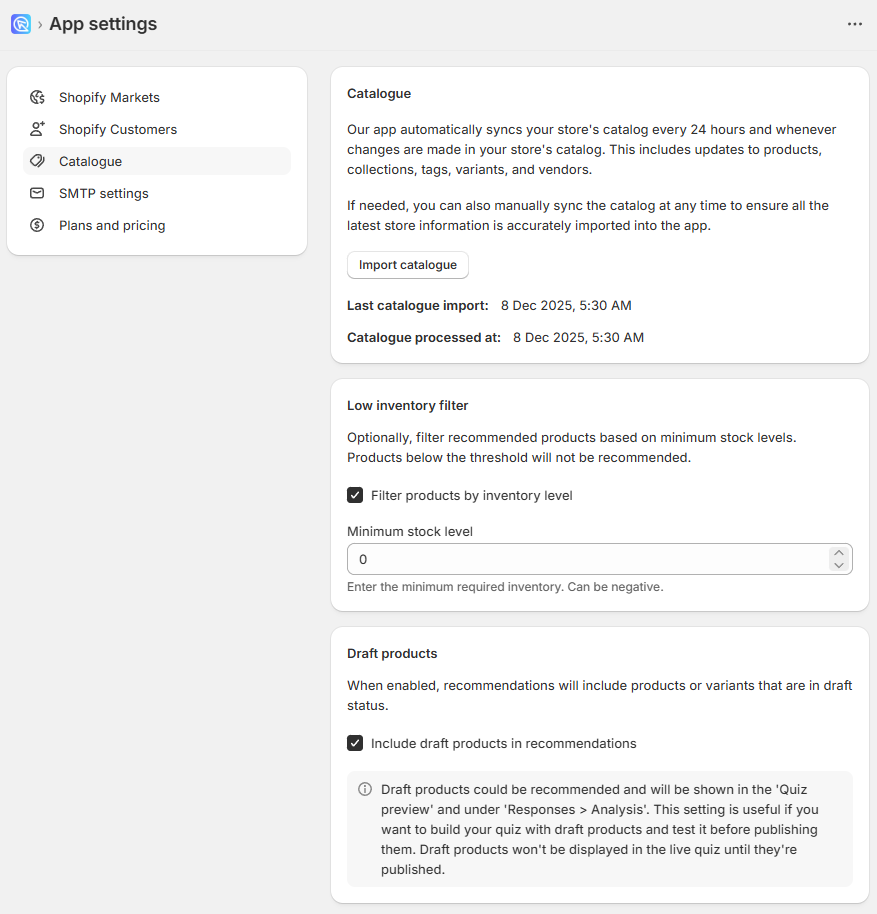
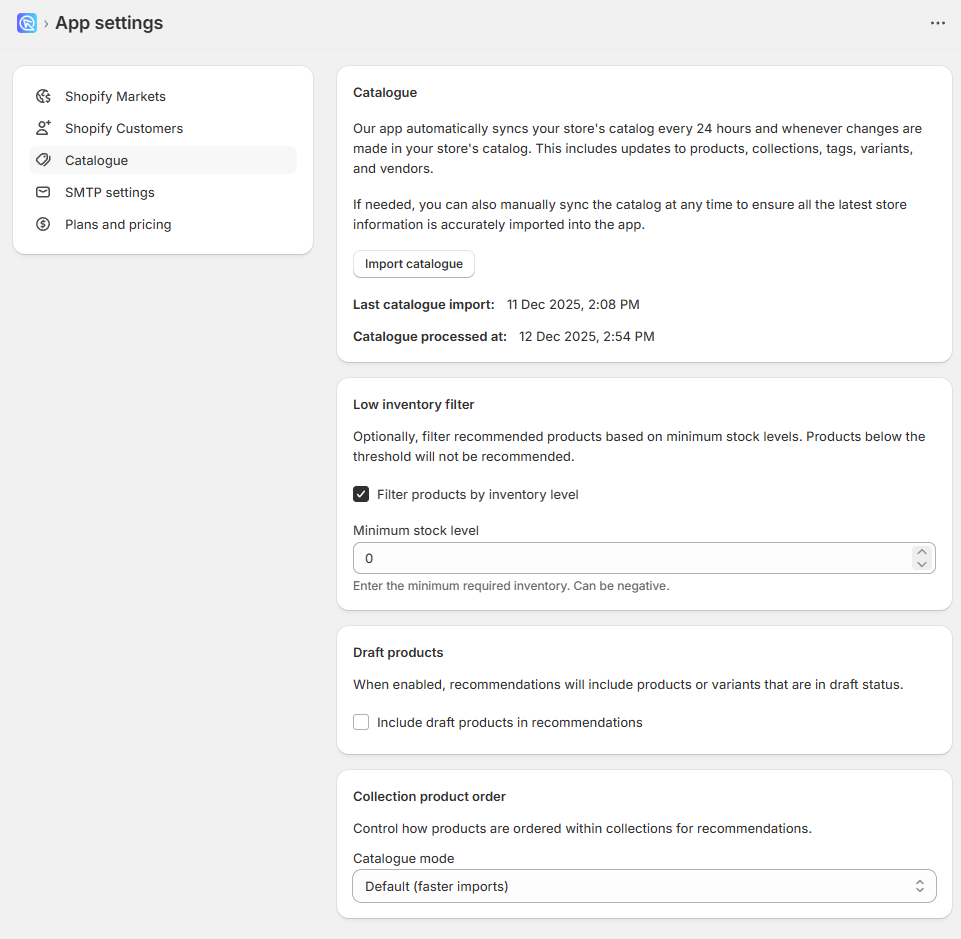
docs: update product recommendation documentation to clarify tie-breaking behavior and introduce 'Preserve collection order' setting for improved user guidance

diff --git a/docs/how-to-guides/set-up-funnel-quiz.md b/docs/how-to-guides/set-up-funnel-quiz.md
@@ -18,7 +18,7 @@ Our product recommendation algorithm works like a voting system:
 - When a customer picks a choice, all linked products receive one vote.
 - After the customer takes the quiz, the results page will show the most voted product variants sorted by the number of votes.
 - If no products have been linked or all the products have been excluded, the results page will appear empty.
-- If there's a draw in the number of votes, the app will randomize the order of products.
+- If there's a draw in the number of votes, the order depends on your Catalogue mode setting. By default, ties are randomized. Enable 'Preserve collection order' in [Settings > Catalogue](/reference/quiz-builder/quiz-settings/#catalogue-settings) to show products in the same order as your Shopify collections.
 
 **Understand Inclusion and Exclusion**
 
@@ -151,7 +151,7 @@ Use the `exclude` field of the [Link Products/Collections/Exclude](/reference/qu
 
 The voting system recommends products by counting how many times each one is "voted for" through customer quiz choices. Each quiz choice can be linked to specific product variants, and every time a customer selects a choice, the associated products receive one vote. 
 
-At the end of the quiz, the results page displays the product variants with the most votes, sorted from highest to lowest. If no products have been linked or all products are excluded by logic, the results page will be empty. In the case of a tie, the app will randomize the product order. You can also configure the system to show only a limited number of top-voted products or set a minimum number of votes for a product to appear.
+At the end of the quiz, the results page displays the product variants with the most votes, sorted from highest to lowest. If no products have been linked or all products are excluded by logic, the results page will be empty. If there's a draw in the number of votes, the order depends on your Catalogue mode setting. By default, ties are randomized. Enable 'Preserve collection order' in [Settings > Catalogue](/reference/quiz-builder/quiz-settings/#catalogue-settings) to show products in the same order as your Shopify collections. You can also configure the system to show only a limited number of top-voted products or set a minimum number of votes for a product to appear.
 
 ![how_to_shopify_v2_recommendations_funnel](/images/how_to_shopify_v2_recommendations_funnel.png){width=500} 
 
@@ -492,7 +492,7 @@ The voting system counts product "votes" based on customer quiz choices and then
     - When a customer picks a choice, all linked products receive one vote
     - After the customer takes the quiz, the results page will show the most voted products sorted by the number of votes
     - If no products have been linked or all the products have been excluded, the results page will appear empty
-    - If there's a draw in the number of votes, the app will randomize the order of products
+    - If there's a draw in the number of votes, the order depends on your Catalogue mode setting. By default, ties are randomized. Enable 'Preserve collection order' in [Settings > Catalogue](/reference/quiz-builder/quiz-settings/#catalogue-settings) to show products in the same order as your Shopify collections.
 
     You can also:
     - Limit the recommendations to only show products that received X votes or more in the [Results Page settings](/how-to-guides/only-recommend-products-with-minimum-votes/)
@@ -1161,7 +1161,7 @@ Branch your quiz to show different follow-up questions based on customer choices
     - When a customer picks a choice, all linked products receive one vote
     - After the customer takes the quiz, the results page will show the most voted products sorted by the number of votes
     - If no products have been linked or all the products have been excluded, the results page will appear empty
-    - If there's a draw in the number of votes, the app will randomize the order of products
+    - If there's a draw in the number of votes, the order depends on your Catalogue mode setting. By default, ties are randomized. Enable 'Preserve collection order' in [Settings > Catalogue](/reference/quiz-builder/quiz-settings/#catalogue-settings) to show products in the same order as your Shopify collections.
 
     **Step 2: Build Quiz Structure**
 
@@ -1499,7 +1499,7 @@ Show or hide different text blocks on the results page based on customer choices
     - When a customer picks a choice, all linked products receive one vote
     - After the customer takes the quiz, the results page will show the most voted products sorted by the number of votes
     - If no products have been linked or all the products have been excluded, the results page will appear empty
-    - If there's a draw in the number of votes, the app will randomize the order of products
+    - If there's a draw in the number of votes, the order depends on your Catalogue mode setting. By default, ties are randomized. Enable 'Preserve collection order' in [Settings > Catalogue](/reference/quiz-builder/quiz-settings/#catalogue-settings) to show products in the same order as your Shopify collections.
 
     **Step 2: Build Quiz Structure**
 

diff --git a/docs/how-to-guides/set-up-recommendations.md b/docs/how-to-guides/set-up-recommendations.md
@@ -11,7 +11,7 @@ Product recommendations are the heart of any successful quiz experience. They he
 | Recommendation System | Best For | Key Features | Complexity |
 |------------------------|----------|--------------|------------|
 | [🧩 Fixed Recommendations](/how-to-guides/set-up-fixed-recommendations-quiz/#always-the-same-recommendations) | Showing the same product(s) to everyone regardless of answers | - Simple setup<br>- Products always shown<br>- No logic or conditions | Very Low |
-| [✍🏻 Voting System (Funnel Quiz)](/how-to-guides/set-up-funnel-quiz/#funnel-quiz) | Most quizzes, especially product finders or large catalogs | - Automatically adapts to answers<br>- Simple linking of products to choices<br>- Randomized tie-breaking | Low to Medium |
+| [✍🏻 Voting System (Funnel Quiz)](/how-to-guides/set-up-funnel-quiz/#funnel-quiz) | Most quizzes, especially product finders or large catalogs | - Automatically adapts to answers<br>- Simple linking of products to choices<br>- Randomized or collection-based tie-breaking | Low to Medium |
 | [✍🏻 Voting System (Funnel Quiz with Slots)](/how-to-guides/set-up-funnel-quiz/#funnel-quiz-with-slots) | Product recommendation routines, different product categories (e.g. cleanser + moisturizer) | - Slot-based grouping<br>- Step-by-step product recommendations<br>- Still uses dynamic voting | Medium |
 | [🎯 Custom Scoring System (Most Voted Variable)](/how-to-guides/set-up-scoring-quiz/#winning-variable-quiz) | Personality quizzes, Dosha tests, where outcome depends on which variable (A, B, C...) got the most choices | - Tracks most frequent variable<br>- Outputs results by majority<br>- Often used for typology quizzes | Medium |
 | [🎯 Custom Scoring System (Score + Variable)](/how-to-guides/set-up-scoring-quiz/#scoring-quiz-with-one-results-page) | Quizzes that need to calculate values or mix scoring with conditions | - Weighted scoring<br>- Adds hidden variables<br>- Logic can combine score + other rules | Medium to High |
@@ -43,7 +43,7 @@ Product recommendation algorithm works like a voting system:
 
 - Product variants are linked to each choice.
 - When a customer picks a choice, all linked products receive one vote.
-- After the customer takes the quiz, the results page will show the most voted product variants sorted by the number of votes. *If no products have been linked or all the products have been excluded, the results page will appear empty. If there's a draw in the number of votes, the app will randomize the order of products.*
+- After the customer takes the quiz, the results page will show the most voted product variants sorted by the number of votes. *If no products have been linked or all the products have been excluded, the results page will appear empty. If there's a draw in the number of votes, the order depends on your Catalogue mode setting. By default, ties are randomized. Enable 'Preserve collection order' in [Settings > Catalogue](/reference/quiz-builder/quiz-settings/#catalogue-settings) to show products in the same order as your Shopify collections.*
 - You can limit recommendations to a specific number of products or a minimum vote threshold.
 
 !!! tip "How to set this up?"

diff --git a/docs/reference/app-settings.md b/docs/reference/app-settings.md
@@ -213,7 +213,34 @@
 
     `Include draft products in recommendations` - When enabled, recommendations will include products or variants that are in draft status. Draft products could be recommended and will be shown in the 'Quiz preview' and under [Responses > Analysis](/reference/quiz-builder/metrics/#response-analysis). This setting is useful if you want to build your quiz with draft products and test it before publishing them. Draft products won't be displayed in the live quiz until they're published.
 
+    `Collection product order` - Control how products are ordered within collections for recommendations.
 
+    `Catalogue mode` - Choose between `Default (faster imports)` and `Preserve collection order`. 
+    
+    `Default (faster imports)` - When products have equal votes, they appear in random order. This mode imports your catalogue faster. 
+    
+    `Preserve collection order` - When products have equal votes, they appear in the same order as arranged in your Shopify collections. Products placed earlier in your collection appear first in recommendations.
+
+    !!! warning "After changing this setting"
+
+        You must click `Import Catalogue` to apply the change. The new ordering takes effect only after a fresh import.
+
+    ??? info "When to use Preserve collection order?"
+
+        Enable this if you've manually arranged products in your Shopify collections (for example, best-sellers first or new arrivals at the top) and want that order reflected in quiz recommendations.
+
+        When `Preserve collection order` is enabled products are imported in the order they appear in your Shopify collections and when two products have equal votes, the one placed earlier in the collection appears first. This works with both manual sorting and Shopify's automatic collection sorting (best-selling, alphabetical, price, etc.).
+
+        For example: Imagine you have a "Best Sellers" collection with products arranged by sales:
+
+        1. Product A (best seller)
+        2. Product B (second best)
+        3. Product C (third best)
+
+        If Products A and C both receive 3 votes in a quiz:
+
+        - **With Default mode**: Either could appear first (random)
+        - **With Preserve collection order**: Product A appears first (position 1 beats position 3)
 
 
 === "Shopify (Legacy)"

diff --git a/docs/how-to-guides/recommend-product-matrix.md b/docs/how-to-guides/recommend-product-matrix.md
@@ -100,7 +100,7 @@ First of all, you should understand that the recommendations algorithm works lik
     - When a customer picks a choice, all linked products receive one vote
     - After the customer takes the quiz, the results page will show the most voted products sorted by the number of votes
     - If no products have been linked or all the products have been excluded, the results page will appear empty
-    - If there's a draw in the number of votes, the app will randomize the order of products.
+    - If there's a draw in the number of votes, the order depends on your Catalogue mode setting. By default, ties are randomized. Enable 'Preserve collection order' in [Settings > Catalogue](/reference/quiz-builder/quiz-settings/#catalogue-settings) to show products in the same order as your Shopify collections.
 
     If you want to make the results ultra-precise, you can also:
 
@@ -414,7 +414,7 @@ If you’re not getting the expected results, please check [this article](/how-t
 
     ![how to recommend products matrix results1](/images/how_to_recommend_products_results1.png)
 
-    When products receive the same amount of votes, the algorithm randomizes the order in which they are shown on the Results page.
+    When products receive the same amount of votes, the algorithm randomizes the order in which they are shown on the Results page. By default, ties are randomized. Enable 'Preserve collection order' in [Settings > Catalogue](/reference/quiz-builder/quiz-settings/#catalogue-settings) to show products in the same order as your Shopify collections.
 
 If you’d like to organize the products in a specific order, you can create `Product Slots` on the Results Page. Check [this article](/how-to-guides/recommend-skincare-routine-slots/) to learn how to do that.
 

diff --git a/docs/tutorials/making-first-quiz.md b/docs/tutorials/making-first-quiz.md
@@ -327,7 +327,7 @@ Once you're happy with the design, you can add products to each question. It is 
         - Products are linked to each choice. 
         - When a customer picks that choice, all linked products receive one vote.
         - After the customer takes the quiz, the results page will show the products sorted by the number of votes.
-        - If there is a draw in the number of votes, the app will randomize the products.
+        - If there's a draw in the number of votes, the order depends on your Catalogue mode setting. By default, ties are randomized. Enable 'Preserve collection order' in [Settings > Catalogue](/reference/quiz-builder/quiz-settings/#catalogue-settings) to show products in the same order as your Shopify collections.
     6. Make sure to link products to each question and choice in the quiz. 
     7. You can test different answering routes and results by clicking on the `Save` button to update your changes and then `Preview`.
 
